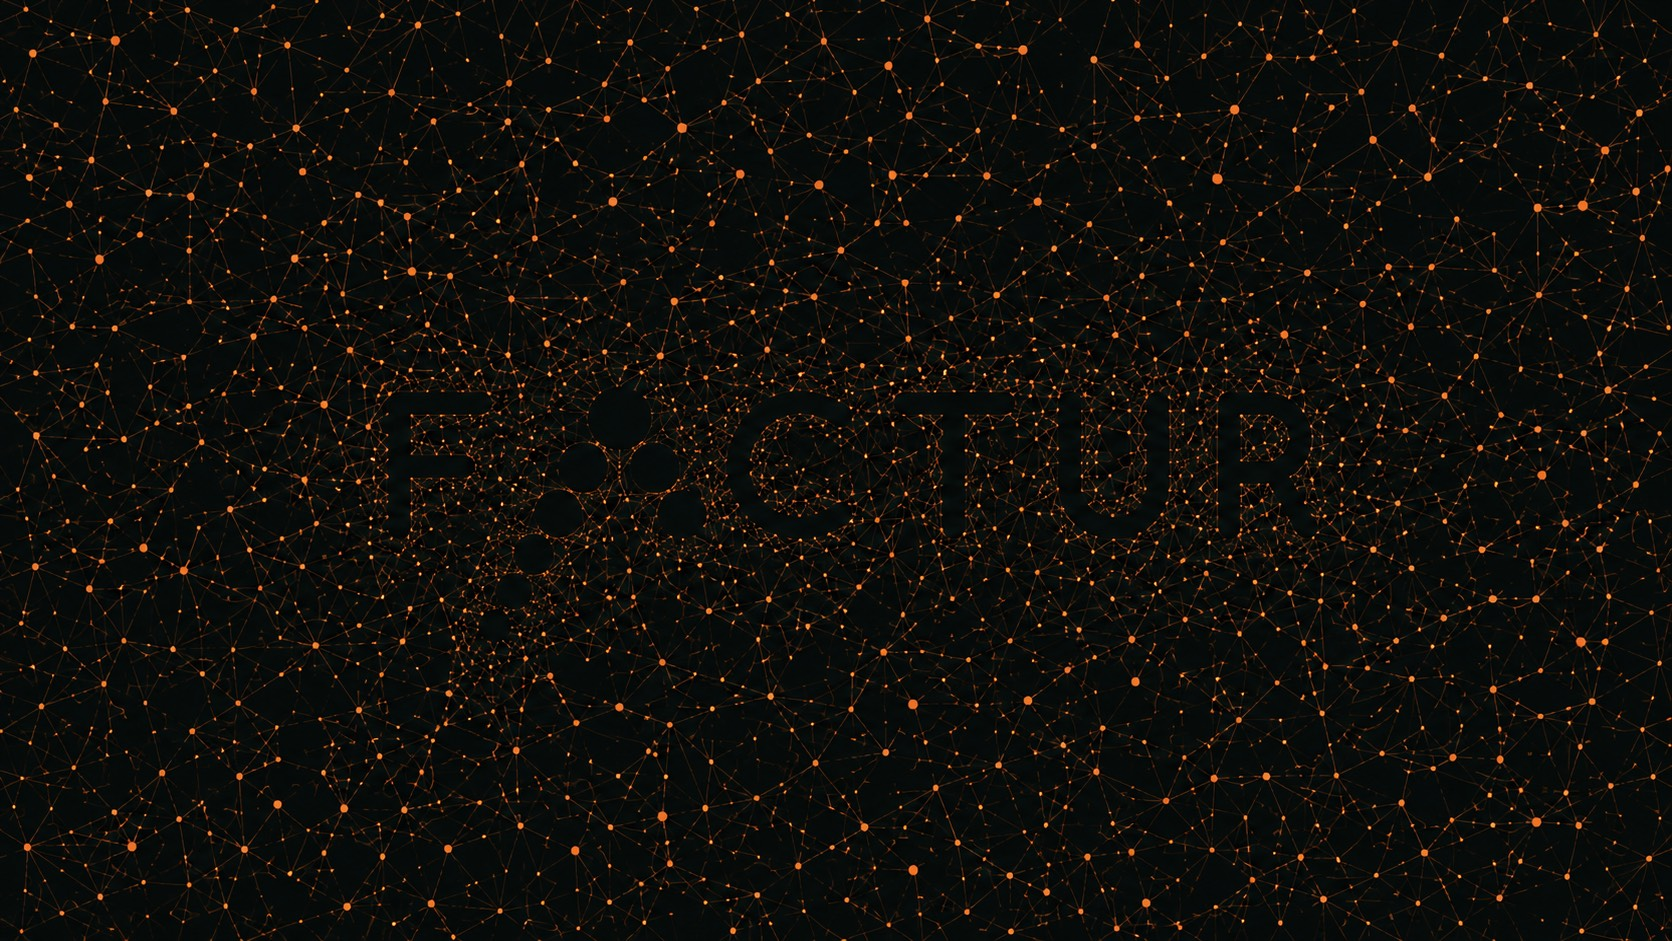
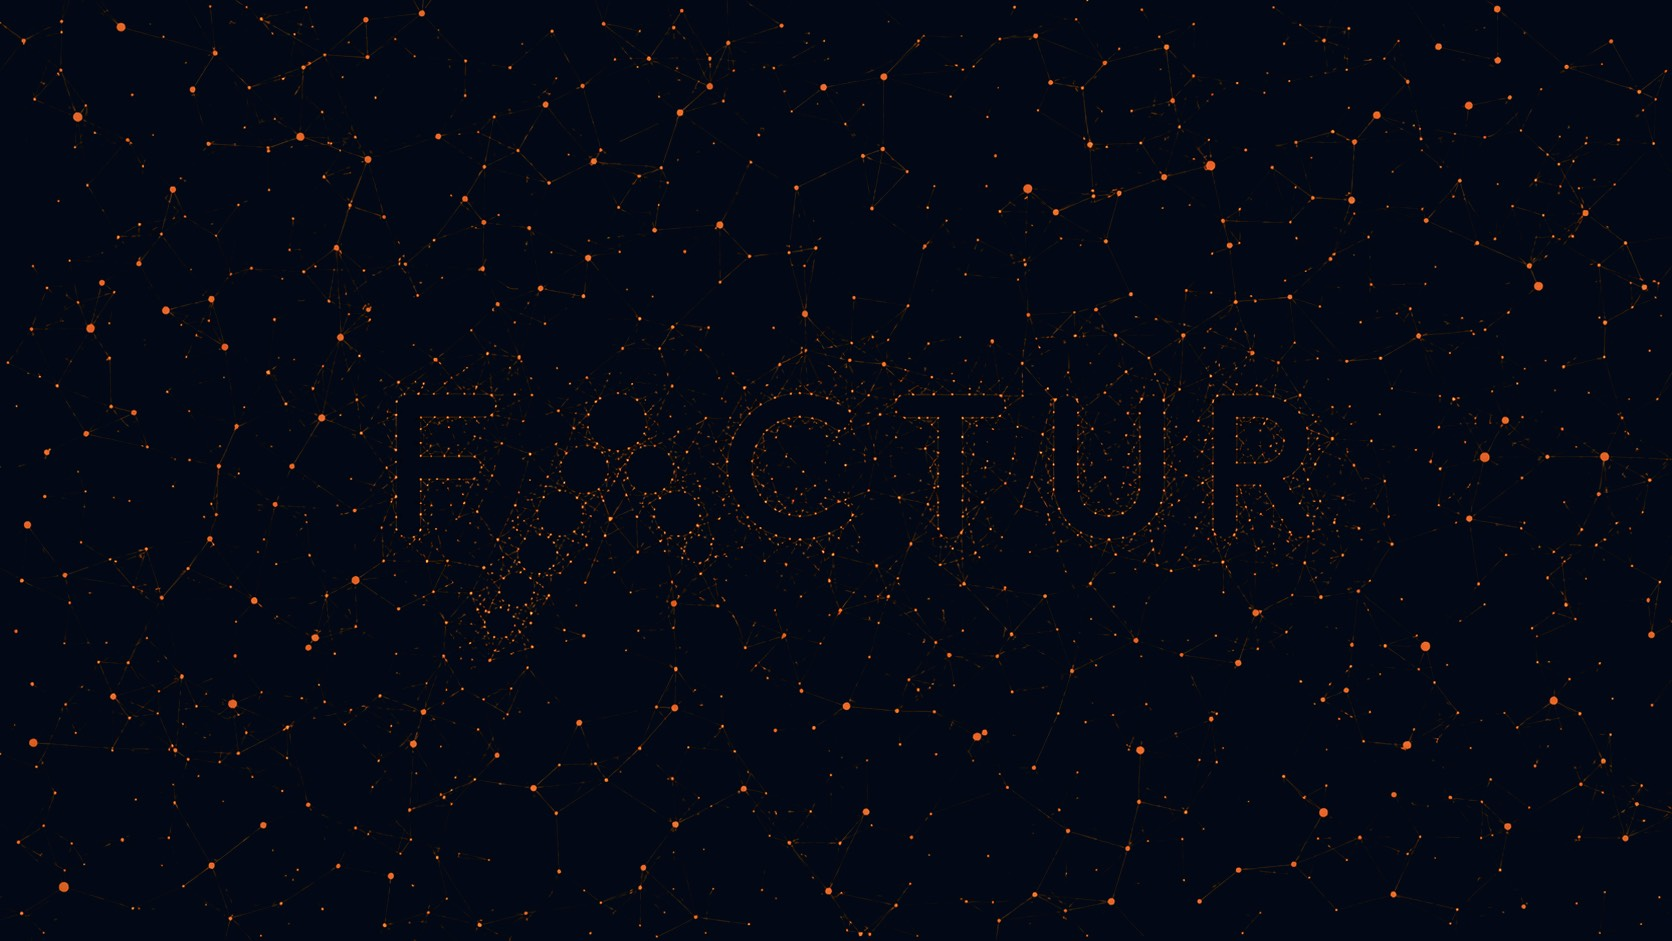
Navy constellation behind the sign-in
Replaces the near-black artwork. The halo reads properly for the first
time as a side effect: black on navy has something to contrast against,
where black on near-black had almost nothing, which is why widening it
twice only helped so much.

The flat colour behind the image moves to the artwork's own navy. It
only shows if the file is ever missing, and brand black under a navy
photograph would make that failure look like a bug rather than a plain
background.

208KB as JPEG, down from the 707KB PNG.

diff --git a/app/(auth)/login/page.tsx b/app/(auth)/login/page.tsx
@@ -45,11 +45,12 @@ export default function LoginPage() {
      * and signed out there is no preference to read in the first place.
      *
      * A background image rather than an <img>: if the file is not there the
-     * brand black underneath simply shows through, where a broken <img> would
-     * put a torn-page icon in the middle of the sign-in screen.
+     * flat colour underneath simply shows through, where a broken <img> would
+     * put a torn-page icon in the middle of the sign-in screen. That colour
+     * is the artwork's own navy, so a failure looks plain rather than wrong.
      */
     <div
-      className="relative min-h-screen overflow-hidden bg-[#000807] bg-cover bg-center p-4"
+      className="relative min-h-screen overflow-hidden bg-[#0b1020] bg-cover bg-center p-4"
       style={{ backgroundImage: "url('/login-background.jpg')" }}
     >
       {/* Sitting on the three-quarter line, so the artwork keeps the middle. */}
